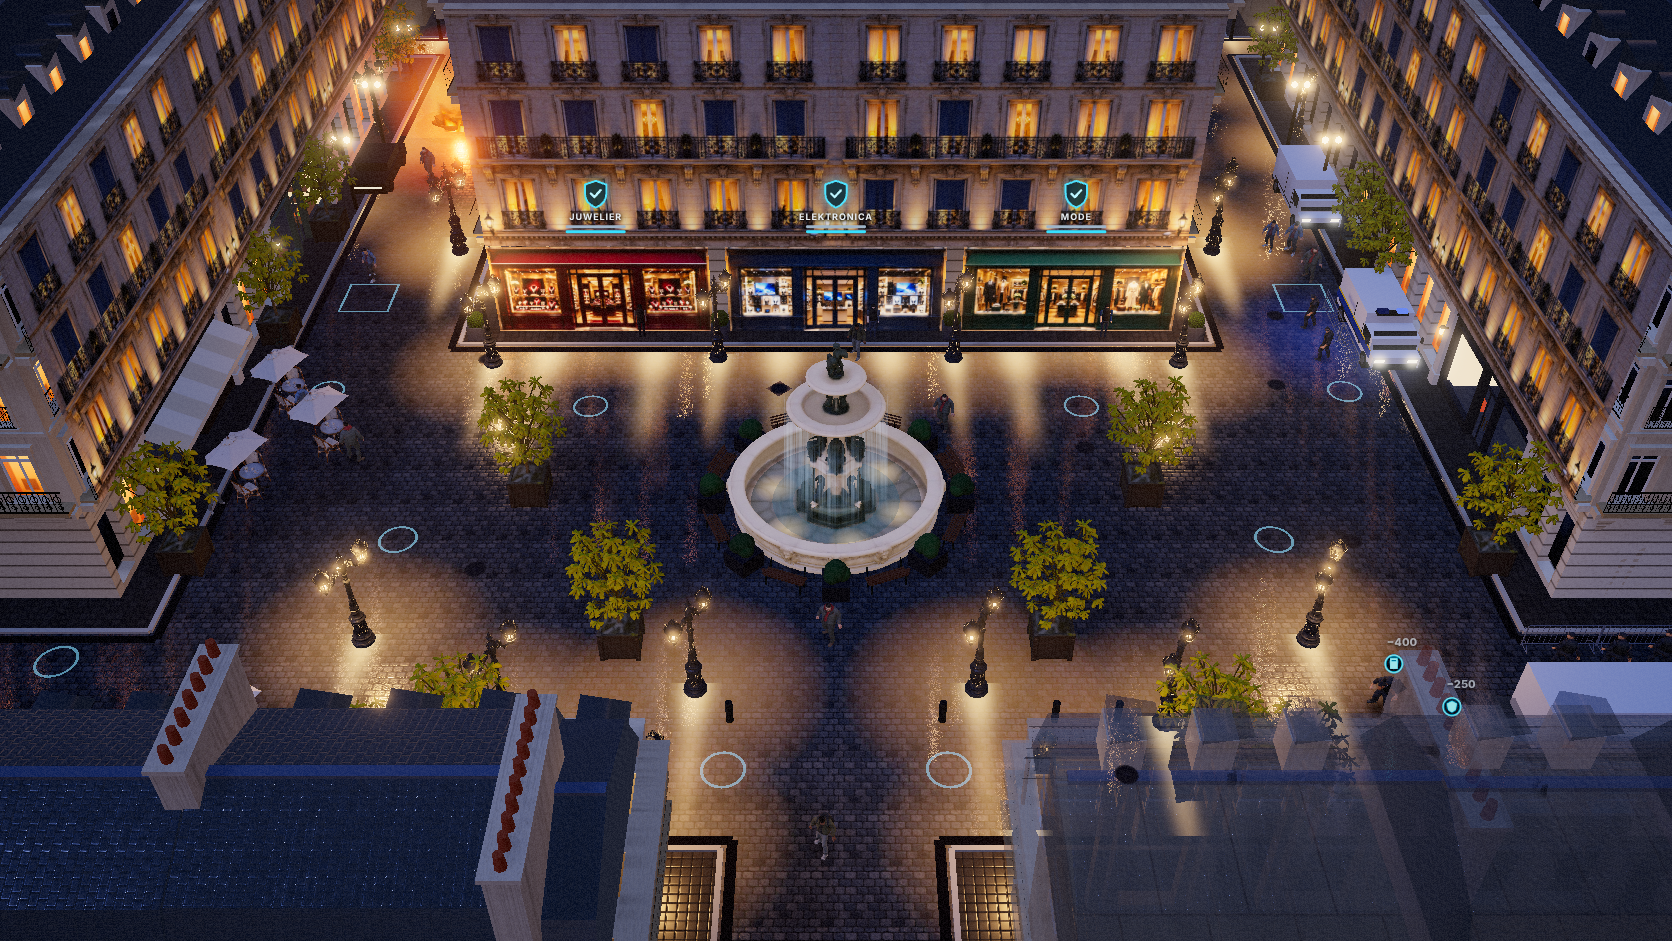
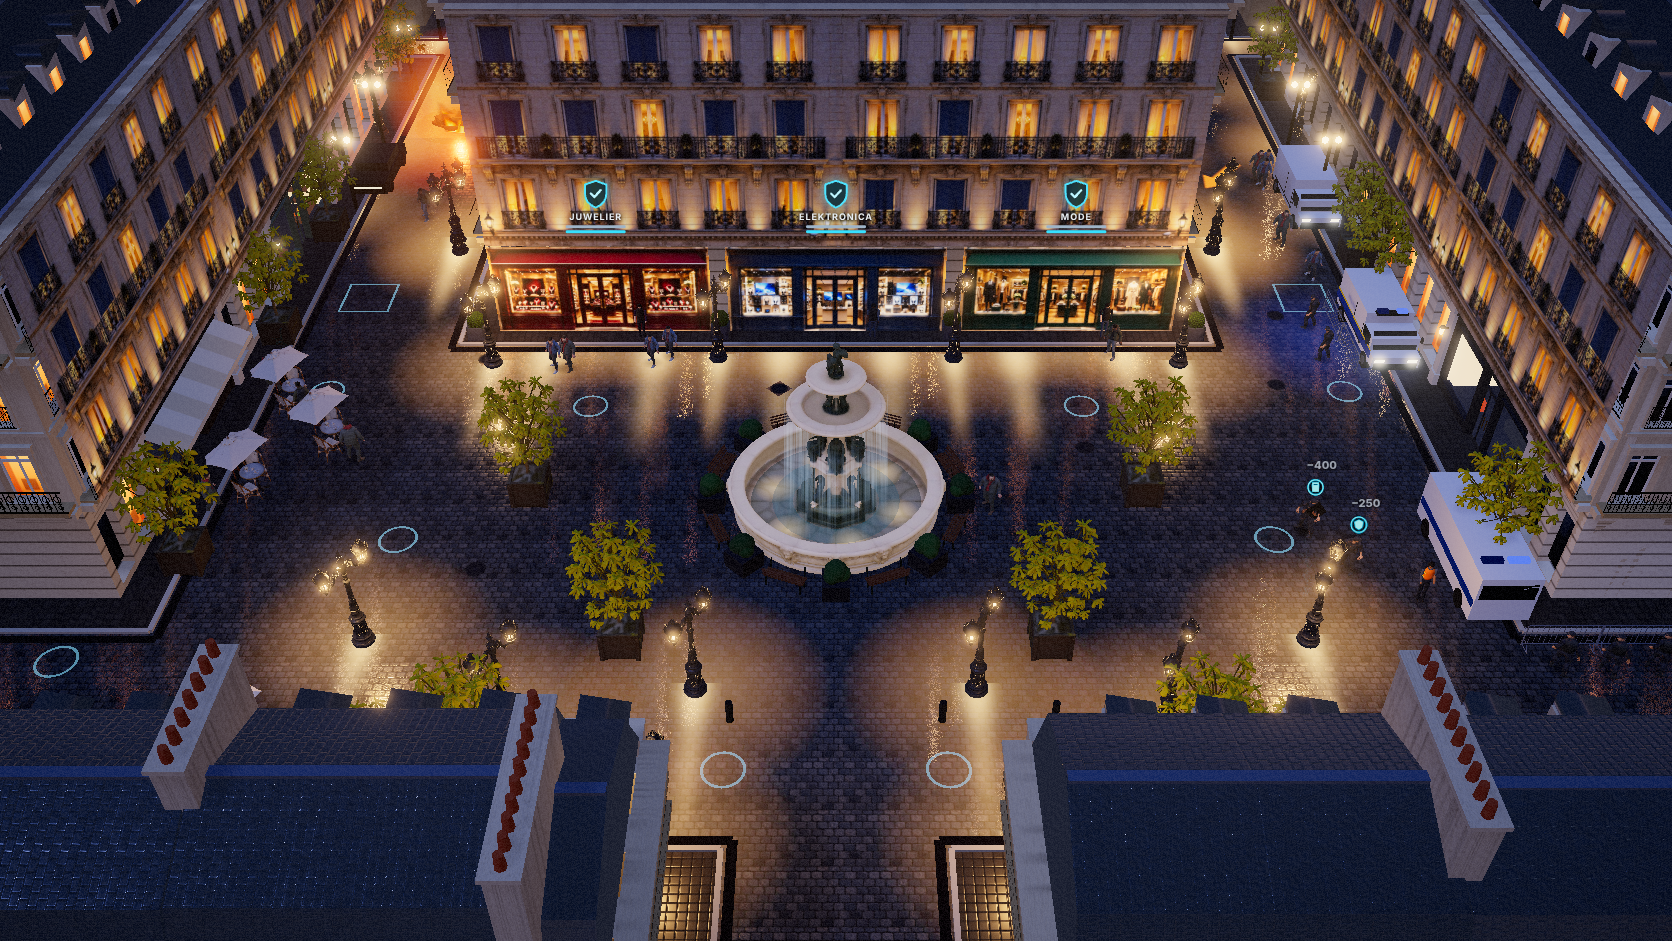
Paris: defence staging point and van moved up the square so the foreground roofs never fade over the reserve team
Claude-Session: https://claude.ai/code/session_01BXwHgzxV8xQ1iJXcvKU6su

diff --git a/city-hold/src/maps/paris.ts b/city-hold/src/maps/paris.ts
@@ -132,8 +132,8 @@ export const PARIS: MapDef = {
     { id: 'L3', x: 0, z: 18, size: 'large', rot: 0 },
     { id: 'L4', x: -28.5, z: 9, size: 'large', rot: 90 },
   ],
-  van: { x: 24.5, z: 9, rot: 90 },
-  defenderSpawn: { x: 19.5, z: 9 },
+  van: { x: 22.6, z: 1.5, rot: 0 },
+  defenderSpawn: { x: 19.2, z: 0.5 }, // far enough from the foreground block that its roof never hides the staging team
   lowSight: [],
   // the three upper floors of the shop building as painted in concept 01 (floors above the shop fascia up to the cornice)
   glowLamps: ([[-16.2, -24], [-16.2, -30], [-16.2, -37], [-16.2, -44], [-16.2, -50], [-16.2, -56], [-16.2, -63], [-16.2, -70], [-23.6, -24], [-23.6, -30], [-23.6, -37], [-23.6, -44], [-23.6, -50], [-23.6, -56], [-23.6, -63], [-23.6, -70], [16.2, -24], [16.2, -30], [16.2, -37], [16.2, -44], [16.2, -50], [16.2, -56], [16.2, -63], [16.2, -70], [23.6, -24], [23.6, -30], [23.6, -37], [23.6, -44], [23.6, -50], [23.6, -56], [23.6, -63], [23.6, -70], [-36, -43.5], [-8, -43.5], [8, -43.5], [36, -43.5]] as const).map(([x, z]) => ({ x, z })),
